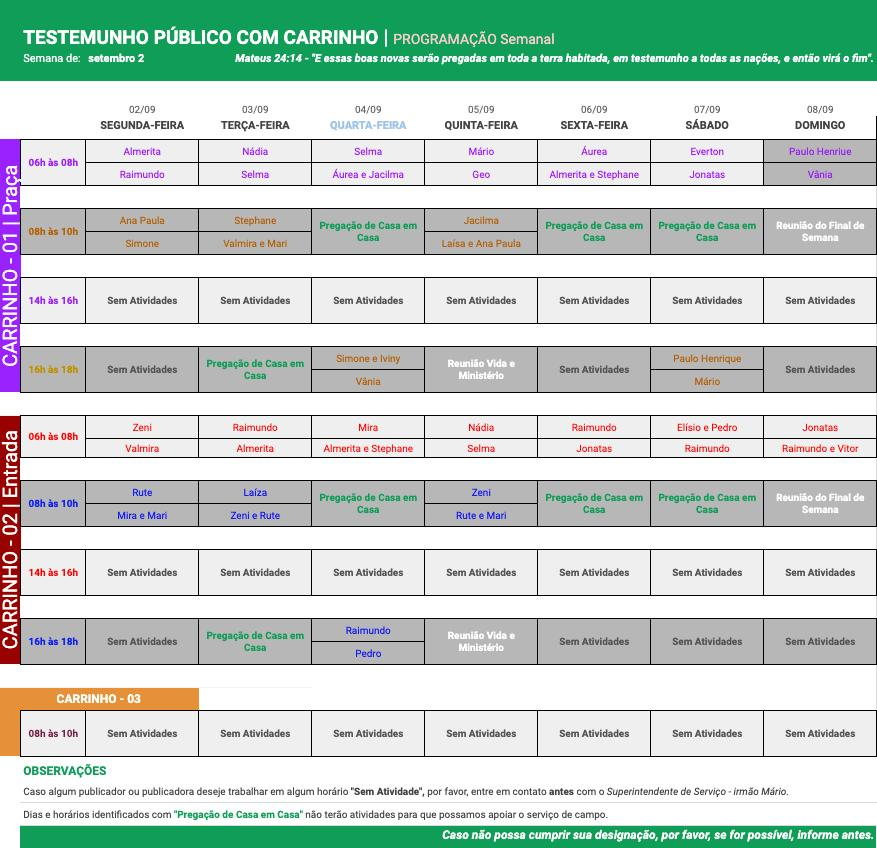
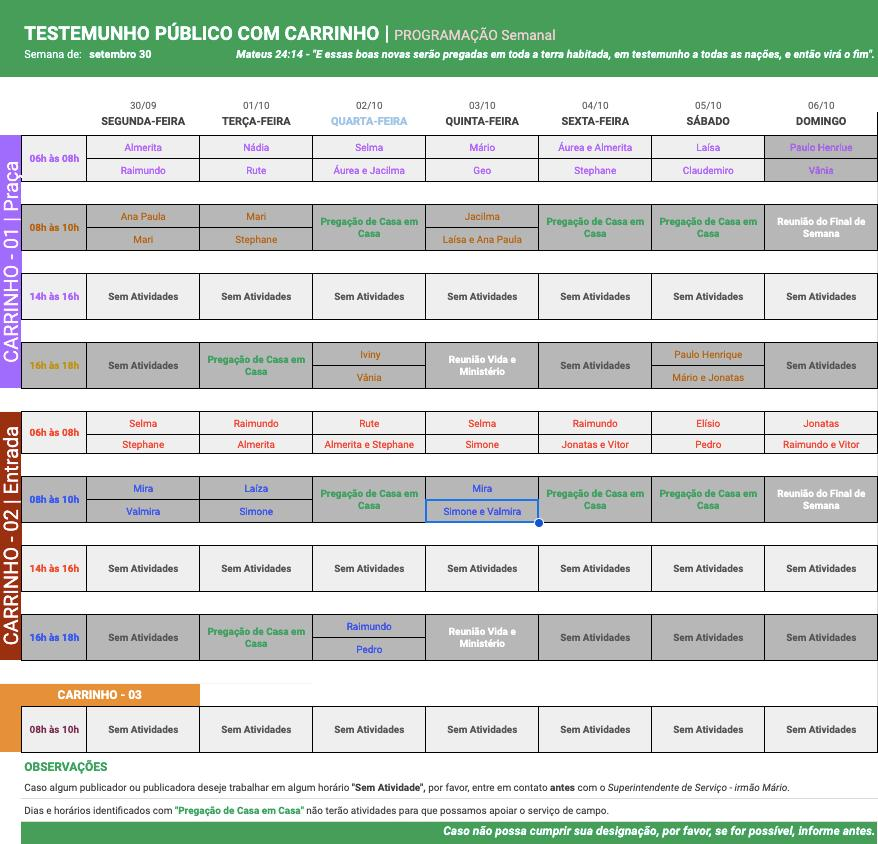
add content october

diff --git a/pages/mecanicas.html b/pages/mecanicas.html
@@ -112,79 +112,6 @@
                     </h2>
 
                     <h4 style="text-align: center; color: black">
-                        <strong>Mês de Setembro</strong>
-                    </h4>
-                    <table class="table table-striped">
-                        <thead class="thead-dark">
-                            <tr>
-                                <th scope="col">Data</th>
-                                <th scope="col">Palco</th>
-                                <th scope="col">Porta</th>
-                                <th scope="col">Microfone 1</th>
-                                <th scope="col">Microfone 2</th>
-                            </tr>
-                        </thead>
-                        <tbody>
-                            <tr>
-                                <th scope="row">Quinta-feira - 05/09</th>
-                                <td>Vitor</td>
-                                <td>Dielson</td>
-                                <td>Dielson</td>
-                                <td>Pedro</td>
-                            </tr>
-                            <tr>
-                                <th scope="row">Sábado - 07/09</th>
-                                <td>Everton</td>
-                                <td>Raimundo</td>
-                                <td>Jonatan</td>
-                                <td>Dielson</td>
-                            </tr>
-                            <tr>
-                                <th scope="row">Quinta-feira - 12/09</th>
-                                <td>Mário</td>
-                                <td>Vitor</td>
-                                <td>Pedro</td>
-                                <td>Raimundo</td>
-                            </tr>
-                            <tr>
-                                <th scope="row">Sábado - 14/09</th>
-                                <td>Elísio</td>
-                                <td>Raimundo</td>
-                                <td>Vitor</td>
-                                <td>Jonatan</td>
-                            </tr>
-                            <tr>
-                                <th scope="row">Quinta-feira - 19/09</th>
-                                <td>Everton</td>
-                                <td>Dielson</td>
-                                <td>Jonatan</td>
-                                <td>Pedro</td>
-                            </tr>
-                            <tr>
-                                <th scope="row">Sábado - 21/09</th>
-                                <td>Mário</td>
-                                <td>Raimundo</td>
-                                <td>Jonatan</td>
-                                <td>Pedro</td>
-                            </tr>
-                            <tr>
-                                <th scope="row">Quinta-feira - 26/09</th>
-                                <td>Vitor</td>
-                                <td>Raimundo</td>
-                                <td>Jonatan</td>
-                                <td>Dielson</td>
-                            </tr>
-                            <tr>
-                                <th scope="row">Sábado - 28/09</th>
-                                <td>Dielson</td>
-                                <td>Everton</td>
-                                <td>Vitor</td>
-                                <td>Pedro</td>
-                            </tr>
-                        </tbody>
-                    </table>
-
-                    <h4 style="text-align: center; color: black">
                         <strong>Mês de Outubro</strong>
                     </h4>
                     <table class="table table-striped">
@@ -195,6 +122,8 @@
                                 <th scope="col">Porta</th>
                                 <th scope="col">Microfone 1</th>
                                 <th scope="col">Microfone 2</th>
+                                <th scope="col">Frente</th>
+                                <th scope="col">Bebedouro</th>
                             </tr>
                         </thead>
                         <tbody>
@@ -203,63 +132,81 @@
                                 <td>Elísio</td>
                                 <td>Raimundo</td>
                                 <td>Dielson</td>
+                                <td>Everton</td>
+                                <td>Claudemiro</td>
                                 <td>Jonatan</td>
                             </tr>
                             <tr>
-                                <th scope="row">Sábado - 05/10</th>
-                                <td>Dielson</td>
-                                <td>Vitor</td>
-                                <td>Raimundo</td>
+                                <th scope="row">Domingo - 06/10</th>
+                                <td>Everton</td>
+                                <td>Everton</td>
+                                <td>Jonatan</td>
                                 <td>Claudemiro</td>
+                                <td>Dielson</td>
+                                <td>Pedro</td>
                             </tr>
                             <tr>
                                 <th scope="row">Quinta-feira - 10/10</th>
-                                <td>Everton</td>
-                                <td>Dielson</td>
-                                <td>Pedro</td>
                                 <td>Mário</td>
+                                <td>Dielson</td>
+                                <td>Elísio</td>
+                                <td>Everton</td>
+                                <td>Vitor</td>
+                                <td>Jonatas</td>
                             </tr>
                             <tr>
-                                <th scope="row">Sábado - 12/10</th>
+                                <th scope="row">Domingo - 13/10</th>
                                 <td>Vitor</td>
-                                <td>Raimundo</td>
+                                <td>Claudemiro</td>
                                 <td>Dielson</td>
-                                <td>Jonatan</td>
+                                <td>Raimundo</td>
+                                <td>Raimundo</td>
+                                <td>Everton</td>
                             </tr>
                             <tr>
                                 <th scope="row">Quinta-feira - 17/10</th>
-                                <td>Mário</td>
                                 <td>Dielson</td>
+                                <td>Elísio</td>
                                 <td>Jonatas</td>
+                                <td>Pedro</td>
+                                <td>Claudemiro</td>
                                 <td>Jonatan</td>
                             </tr>
                             <tr>
-                                <th scope="row">Sábado - 19/10</th>
-                                <td>Elisio</td>
-                                <td>Jonatas</td>
+                                <th scope="row">Domingo - 20/10</th>
+                                <td>Claudemiro</td>
                                 <td>Dielson</td>
+                                <td>Raimundo</td>
                                 <td>Vitor</td>
-                            </tr>
-                            <tr>
-                                <th scope="row">Quinta-feira - 24/10</th>
-                                <td>Dielson</td>
-                                <td>Dielson</td>
-                                <td>Vitor</td>
+                                <td>Everton</td>
                                 <td>Pedro</td>
                             </tr>
                             <tr>
-                                <th scope="row">Sábado - 26/10</th>
-                                <td>Vitor</td>
+                                <th scope="row">Quinta-feira - 24/10</th>
                                 <td>Jonatas</td>
+                                <td>Raimundo</td>
+                                <td>Everton</td>
+                                <td>Claudemiro</td>
+                                <td>Vitor</td>
                                 <td>Dielson</td>
+                            </tr>
+                            <tr>
+                                <th scope="row">Domingo - 27/10</th>
+                                <td>Elísio</td>
+                                <td>Claudemiro</td>
                                 <td>Jonatan</td>
+                                <td>Mário</td>
+                                <td>Dielson</td>
+                                <td>Vitor</td>
                             </tr>
                             <tr>
                                 <th scope="row">Quinta-feira - 31/10</th>
                                 <td>Everton</td>
-                                <td>Raimundo</td>
-                                <td>Vitor</td>
+                                <td>Everton</td>
                                 <td>Pedro</td>
+                                <td>Claudemiro</td>
+                                <td>Raimundo</td>
+                                <td>Jonatan</td>
                             </tr>
                         </tbody>
                     </table>
@@ -270,40 +217,6 @@
                         <a name="ensino"><strong>Presidência aos Sábados e Leitor de A
                                 Sentinela</strong></a>
                     </h2>
-                    <h4 style="text-align: center; color: black">
-                        <strong>Mês de Setembro</strong>
-                    </h4>
-                    <table class="table table-striped">
-                        <thead class="thead-dark">
-                            <tr>
-                                <th scope="col">Data</th>
-                                <th scope="col">Presidente</th>
-                                <th scope="col">Leitor de A Sentinela</th>
-                            </tr>
-                        </thead>
-                        <tbody>
-                            <tr>
-                                <th scope="row">07/09</th>
-                                <td>José Raimundo</td>
-                                <td>Dielson Paz</td>
-                            </tr>
-                            <tr>
-                                <th scope="row">14/09</th>
-                                <td>Mário Júnior</td>
-                                <td>Josenildo</td>
-                            </tr>
-                            <tr>
-                                <th scope="row">21/09</th>
-                                <td>Paulo Henrique</td>
-                                <td>Marcos Vitor</td>
-                            </tr>
-                            <tr>
-                                <th scope="row">28/09</th>
-                                <td>Elísio Chagas</td>
-                                <td>Paulo Henrique</td>
-                            </tr>
-                        </tbody>
-                    </table>
 
                     <h4 style="text-align: center; color: black">
                         <strong>Mês de Outubro</strong>
@@ -318,22 +231,22 @@
                         </thead>
                         <tbody>
                             <tr>
-                                <th scope="row">05/10</th>
+                                <th scope="row">06/10</th>
                                 <td>Paulo Henrique</td>
                                 <td>Everton</td>
                             </tr>
                             <tr>
-                                <th scope="row">12/10</th>
+                                <th scope="row">13/10</th>
                                 <td>Everton</td>
                                 <td>Marcos Vitor</td>
                             </tr>
                             <tr>
-                                <th scope="row">19/10</th>
+                                <th scope="row">20/10</th>
                                 <td>José Raimundo</td>
                                 <td>Dielson Paz</td>
                             </tr>
                             <tr>
-                                <th scope="row">26/10</th>
+                                <th scope="row">27/10</th>
                                 <td>Elisio Chagas</td>
                                 <td>Josenildo Cruz</td>
                             </tr>

diff --git a/pages/vida_ministerio.html b/pages/vida_ministerio.html
@@ -106,38 +106,6 @@
 
                 <div class="fh5co-entry padding">
                     <h1 style="text-align: center; color: black">
-                        <strong>Programação Mês de Agosto</strong>
-                    </h1>
-                    <div>
-                        <img src="../assets/images/data/vm_29-08-2024.jpeg"
-                            alt="Reunião Vida e Ministério 29 de Agosto de 2024" width="100%" height="100%" />
-                    </div>
-                </div>
-
-                <div class="fh5co-entry padding">
-                    <h1 style="text-align: center; color: black">
-                        <strong>Programação Mês de Setembro</strong>
-                    </h1>
-                    <div>
-                        <img src="../assets/images/data/vm_05-09-2024.jpeg"
-                            alt="Reunião Vida e Ministério 05 de Setembro de 2024" width="100%" height="100%" />
-                    </div>
-                    <div>
-                        <img src="../assets/images/data/vm_12-09-2024.jpeg"
-                            alt="Reunião Vida e Ministério 12 de Setembro de 2024" width="100%" height="100%" />
-                    </div>
-                    <div>
-                        <img src="../assets/images/data/vm_19-09-2024.jpeg"
-                            alt="Reunião Vida e Ministério 19 de Setembro de 2024" width="100%" height="100%" />
-                    </div>
-                    <div>
-                        <img src="../assets/images/data/vm_26-09-2024.jpeg"
-                            alt="Reunião Vida e Ministério 26 de Setembro de 2024" width="100%" height="100%" />
-                    </div>
-                </div>
-
-                <div class="fh5co-entry padding">
-                    <h1 style="text-align: center; color: black">
                         <strong>Programação Mês de Outubro</strong>
                     </h1>
                     <div>
@@ -176,7 +144,7 @@
                     </tr>
                 </thead>
                 <tbody>
-                    <tr>
+                    <!-- <tr>
                         <td>03-08-2024</td>
                         <td>Tome posição contra o Diabo</td>
                     </tr>
@@ -195,7 +163,7 @@
                     <tr>
                         <td>31-08-2024</td>
                         <td>Você está no caminho para a vida eterna?</td>
-                    </tr>
+                    </tr> -->
                 </tbody>
             </table>
 

diff --git a/pages/servicos.html b/pages/servicos.html
@@ -106,8 +106,8 @@
                     </h2>
 
                     <div>
-                        <img src="../assets/images/data/campoSetembro.jpeg"
-                            alt="Programação Semanal de Serviço de Campo" width="100%" height="100%" />
+                        <img src="../assets/images/data/campoOutubro.jpeg" alt="Programação Semanal de Serviço de Campo"
+                            width="100%" height="100%" />
                     </div>
 
                     <h4 style="text-align: center; color: black">
@@ -236,22 +236,14 @@
                     </h2>
 
                     <h4 style="text-align: center; color: black">
-                        <strong>Semana de 26 de Agosto a 01 de Setembro</strong>
-                    </h4>
-                    <div>
-                        <img src="../assets/images/data/carrinho5.jpeg" alt="Programação Carrinho de 22 a 28 de Julho"
-                            width="100%" height="100%" />
-                    </div>
-
-                    <h4 style="text-align: center; color: black">
-                        <strong>Semana de 02 a 08 de Setembro</strong>
+                        <strong>Semana de 30 de Setembro a 06 de Outubro</strong>
                     </h4>
                     <div>
                         <img src="../assets/images/data/carrinho1.jpeg"
-                            alt="Programação Carrinho de 02 a 08 de Setembro" width="100%" height="100%" />
+                            alt="Programação Carrinho de 30 de Setembro a 06 de Outubro" width="100%" height="100%" />
                     </div>
 
-                    <h4 style="text-align: center; color: black">
+                    <!-- <h4 style="text-align: center; color: black">
                         <strong>Semana de 09 a 15 de Setembro</strong>
                     </h4>
                     <div>
@@ -273,7 +265,7 @@
                     <div>
                         <img src="../assets/images/data/carrinho4.jpeg"
                             alt="Programação Carrinho de 23 a 29 de Setembro" width="100%" height="100%" />
-                    </div>
+                    </div> -->
                 </div>
             </div>
         </div>
